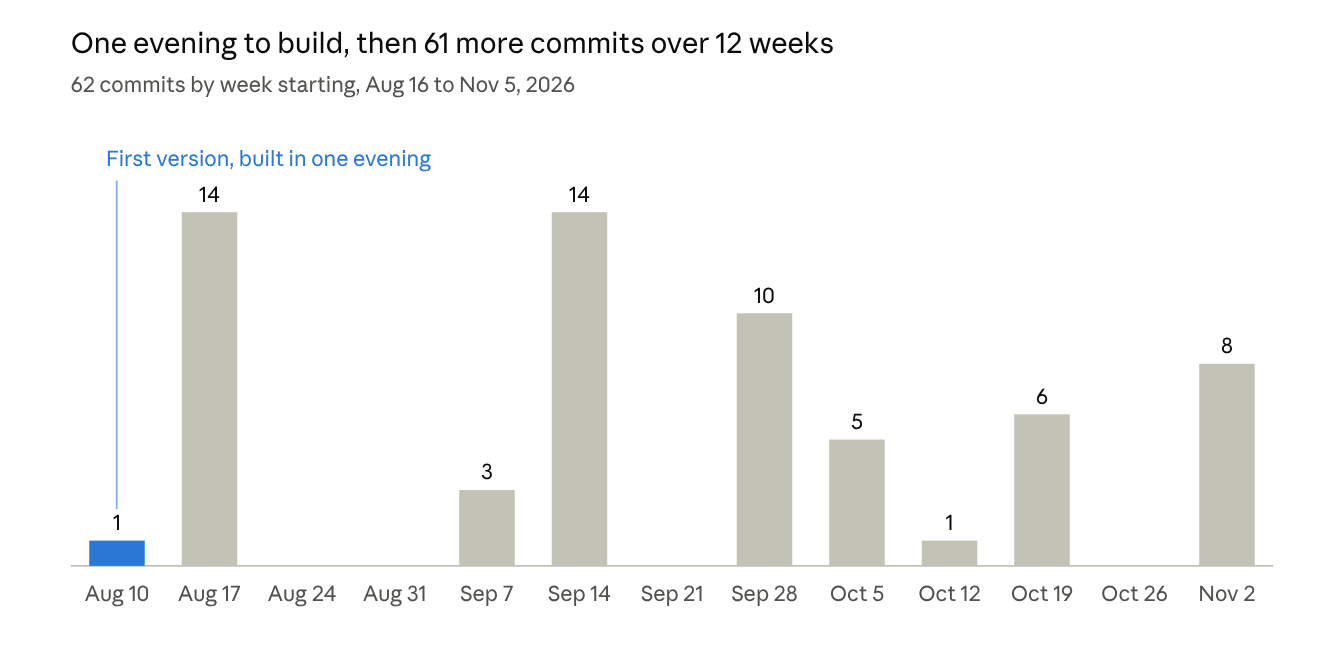
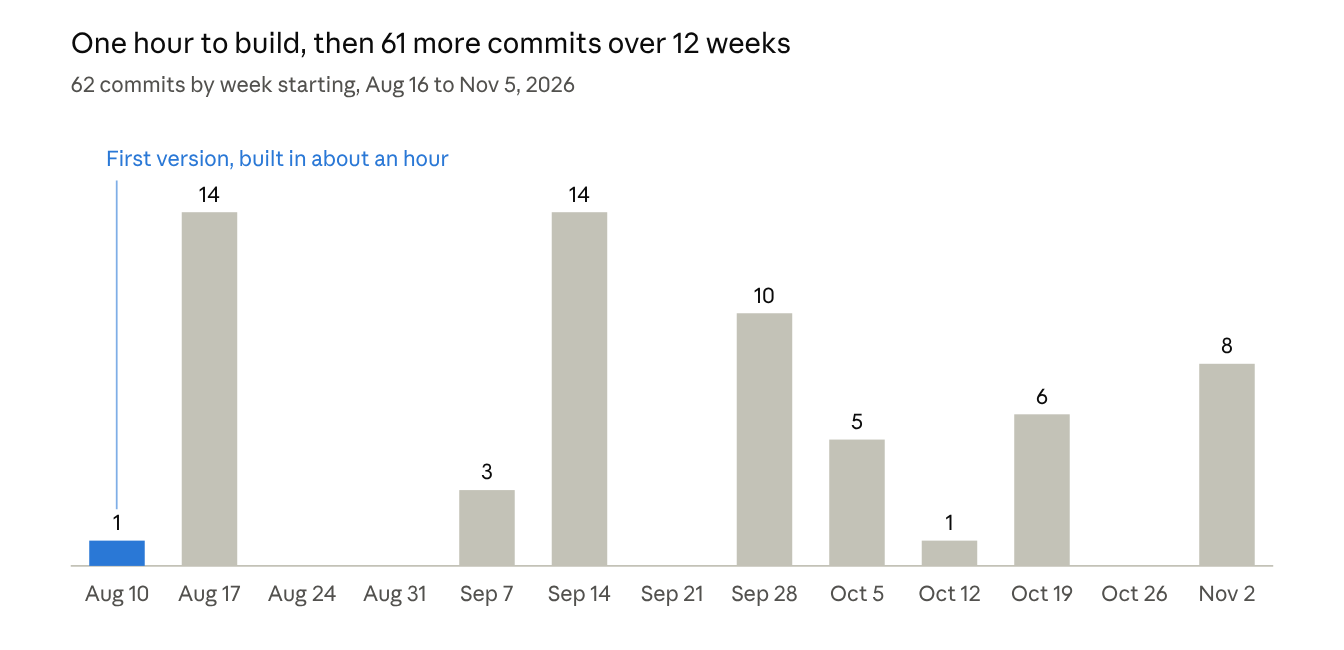
Update draft post with Stefana's revised version
Revised text, new links, new commits-by-week chart, and the All Orders
screenshot removed, from the second publishing package.

Claude-Session: https://claude.ai/code/session_01WRZoeWbWVzNLxqnPq4eQx8

Changed region(s): [[0.0938, 0.0308, 0.625, 0.0923], [0.2188, 0.2154, 0.3438, 0.2769]]

diff --git a/app/writing/vibe-coded-an-app-in-an-hour/page.tsx b/app/writing/vibe-coded-an-app-in-an-hour/page.tsx
@@ -50,93 +50,87 @@ export default function VibeCodingPost() {
       </header>
 
       <div className="post-body">
-        <p>It started with my sister and an order form. She runs a family butcher shop, and every fall she processes venison for hundreds of hunters. She had been trying to turn her paper order form into an Excel file that could create orders. It wasn&apos;t working. Excel couldn&apos;t do what she needed, and every time someone opened the shared file to enter a new order, something else got deleted.</p>
+        <p>It started with my sister and an order form. She runs a family butcher shop, and every Fall she processes venison for hundreds of hunters. She had been trying to turn her paper order form into an Excel file that could create orders. It wasn&apos;t working. Excel couldn&apos;t do what she needed, and every time someone opened the shared file to enter a new order, something would accidentally get deleted.</p>
 
-        <p>She asked if I could help. I run engineering teams for a living, but somewhere along the way &quot;engineering&quot; turned into roadmaps, staffing plans and status reviews. I hadn&apos;t written real code in years. So I tried <Ext href="https://feeds.simonwillison.net/2025/Mar/6/vibe-coding/">vibe coding</Ext> it with an AI assistant, and I had a working first version in about an hour.</p>
+        <p>She asked if I could help. I run engineering teams for a living, but somewhere along the way &quot;engineering&quot; turned into roadmaps, staffing plans and status reviews. I hadn&apos;t written real code in years. So I tried <Ext href="https://medium.com/womenintechnology/my-thoughts-on-vibe-coding-have-evolved-7912d2df0300">vibe coding</Ext> it with ChatGPT and Claude, and I had a working first version in about an hour.</p>
 
         <p>I&apos;m not the only leader heading back to the keyboard. <Ext href="https://leaddev.com/management/engineering-managers-are-back-in-the-codebase">LeadDev reports</Ext> that the share of engineering managers doing more hands-on technical work rose from 20% in 2025 to 35% in 2026.</p>
 
-        <p>That was August 16. Since then it has taken 62 commits over 12 weeks, and we still ship changes every week. This post is about both halves of that journey: how AI tools make it easy to get back to basics, and what the weeks after the first hour taught me about why applications are hard.</p>
+        <p>That was August 16. Since then it has taken 62 commits over 12 weeks, and we still deploy changes every week.</p>
 
         <h2>The use case: a seasonal shop running on paper</h2>
 
         <p>My sister&apos;s shop is in New York and processes venison during the fall and winter season. It handles roughly 1,000 animals between September and February, with one or two non-technical people entering orders.</p>
 
-        <p>Some context, since the subject can be sensitive. Deer populations in much of the Northeast are larger than the land supports, which shows up as crop and garden damage, vehicle collisions and stressed forests. New York State manages the herd through regulated, tagged harvests, and shops like this one turn that harvest into food. A meaningful share is donated to food banks through an NYS program.</p>
+        <p>Some context, since the subject can be sensitive. Deer populations in much of the Northeast are larger than the land supports, so New York State manages the herd through regulated, tagged harvests. Shops like this one turn that harvest into food, and some of it goes to food banks through an NYS program.</p>
 
-        <p>That is all the background this post needs. The real subject is the kind of problem almost every home-based or seasonal business has: a lot of orders, a lot of rules, a paper form, and nobody who wants to pay for enterprise software.</p>
+        <p>It&apos;s the kind of problem a lot of home-based and seasonal businesses have: lots of orders, lots of rules, and a paper form that can&apos;t keep up.</p>
 
-        <p>What the shop needed was specific:</p>
+        <p>The shop needed fast order entry at the counter, printed tickets, and the New York State donation paperwork, all on one laptop with no monthly bill.</p>
 
-        <ul>
-          <li>Take an order in about 90 seconds while a customer waits</li>
-          <li>Track cuts, sausage and specialty work that finish weeks apart</li>
-          <li>Print tickets and receipts on a cheap label printer</li>
-          <li>Capture the New York State donation paperwork correctly</li>
-          <li>Run on one laptop, with no cloud bill and no IT person</li>
-        </ul>
-
-        <h2>Hour one: what AI got right immediately</h2>
+        <h2>Hour one: what AI got right</h2>
 
         <p>I didn&apos;t start with a prompt. I started the way I worked before I led engineering teams: as a product manager. I sat down with my sister for about 20 minutes and asked how she runs the business with that order form. What happens when a hunter drops off a deer? Who touches the order next? What goes wrong?</p>
 
         <p>I scribbled notes all over the front and back of the form. It was a mess, but it held a lot of context that had never been written down anywhere: how cuts trade off against each other, sausage minimums, donations, and when people pay.</p>
 
-        <p>Then I typed those notes into ChatGPT and worked with it to turn them into a product requirements document: a detailed spec of every field, price, rule, printout and report the shop needed. It captured details like the 5 lb minimum per sausage flavor, the 60/40 venison-to-pork ratio, and the rule that a cape and a euro mount can&apos;t go on the same deer.</p>
+        <p>Then I typed those notes into ChatGPT and turned them into a product requirements document (PRD).</p>
 
         <p>I took that PRD to Claude to design the architecture and generate the code. Before writing anything, Claude produced a set of design docs and pushed back on the spec in places, raising questions the PRD hadn&apos;t answered. Two rounds of answers from the shop settled the details, and most of those answers removed features rather than adding them.</p>
 
         <p>That was the <Ext href="https://builder.aws.com/content/3KjWpM4sqd5f0zjUtE67OfUa7rk/ai-driven-development-life-cycle-ai-dlc-on-aws-a-new-approach-to-software-engineering">AI-driven development lifecycle (AIDLC)</Ext> I learned at work, scaled down to a family business: discovery, requirements, design, review, then build. Using two AI tools for different stages worked well to keep my token budget down in each app, as long as I carried the context between them myself.</p>
 
-        <p>With that groundwork done, the build itself was fast. I had a usable app the same evening. The first commit landed on August 16 with 43 files and about 6,400 lines of code, tests included.</p>
+        <p>With that groundwork done, the build itself was fast. I had a usable app the same night. The first commit landed on August 16 with 43 files and about 6,400 lines of code, tests included.</p>
 
-        <p>I made one architecture call up front, and the AI held to it: zero dependencies. The app is Node.js with its built-in SQLite database and plain HTML pages. There is no <code>npm install</code>, no framework and nothing to break during an update. It runs on the owner&apos;s laptop and any phone or tablet on the shop Wi-Fi can open it.</p>
+        <p>I made one architecture call up front - no dependencies. It&apos;s just Node.js and its built-in database, running on the owner&apos;s laptop.</p>
 
-        <p>The home screen answers the question the shop asks all day: what is waiting, and on what?</p>
+        <p>The home screen answers the question the shop asks all day - what is waiting, and on what?</p>
 
         <Figure src="home.png" alt="Home screen showing today's work by stage, with demo data" width={1600} height={1025}>The home screen: today&apos;s work by stage, plus anything that needs a person&apos;s attention. All screenshots in this post use made-up demo data; no real customer information is shown.</Figure>
 
-        <p>Order entry is built for speed. Big touch targets, the phone number first (so repeat customers fill in automatically), and one button to save and print.</p>
+        <p>Order entry is built for speed. Big touch targets (for easy order entry), the phone number first (so repeat customers fill in automatically), and one button to save and print to multiple locations.</p>
 
         <Figure src="new-order.png" alt="New order form with customer, animal and services sections, with demo data" width={1600} height={1025}>New order: customer, animal and cut instructions on one scrolling form, with the running total pinned to the bottom. Demo data.</Figure>
 
-        <p>This is the part of AI coding that feels like magic. A clean, opinionated first version that would have taken me a few weekends a decade ago took one evening. For a leader who has drifted away from code, that is a genuine on-ramp back to the craft.</p>
+        <p>A first version that would have taken me a few weekends a decade ago took about an hour.</p>
 
-        <h2>Weeks two through twelve: reality shows up</h2>
+        <h2>Weeks 2 through 12: reality shows up</h2>
 
-        <p>The app went live on day three. Then the shop started using it, and the real requirements arrived one at a time. The codebase has roughly doubled since that first evening, to about 12,400 lines.</p>
+        <p>The app went live on day 3. Then the shop started using it, and the real requirements arrived one at a time. The codebase has roughly doubled since that first commit, to about 12,400 lines.</p>
 
-        <Figure src="commits-by-week.png" alt="Bar chart of commits per week from August 16 to November 5, 2026: one commit the first evening, then bursts of 14, 14 and 10 commits as the season got going" width={1344} height={650}>Commits per week, from the project&apos;s git history: 62 commits, Aug 16 to Nov 5, 2026.</Figure>
+        <Figure src="commits-by-week.png" alt="Bar chart of commits per week from August 16 to November 5, 2026: one commit for the first version, then bursts of 14, 14 and 10 commits as the season got going" width={1344} height={650}>Commits per week, from the project&apos;s git history: 62 commits, Aug 16 to Nov 5, 2026.</Figure>
 
-        <p>The bursts line up with the shop&apos;s calendar: setup before the season, a rush when new animal types and the donation paperwork arrived, and steady tweaks once orders started flowing. Each commit message reads like a lesson the first prompt could not have known.</p>
+        <p>The bursts of commits line up with the shop&apos;s calendar: setup before the season, a rush when new animal types and the donation paperwork arrived, and steady tweaks once orders started flowing.</p>
 
         <div className="post-table">
           <table>
             <thead><tr><th>Date</th><th>Change</th><th>What reality taught us</th></tr></thead>
             <tbody>
               <tr><td>Nov 5</td><td>Owner-only area for money totals</td><td>Staff and owner need different views of the same data</td></tr>
-              <tr><td>Nov 3</td><td>&quot;Canadian Bacon is not a roast&quot;</td><td>We had reversed this rule twice. Domain knowledge is earned, not prompted</td></tr>
+              <tr><td>Nov 3</td><td>&quot;Canadian Bacon is not a roast&quot;</td><td>We changed this rule twice before getting it right</td></tr>
               <tr><td>Oct 9</td><td>Stop customer names being overwritten</td><td>Real data is messier than demo data</td></tr>
               <tr><td>Oct 4</td><td>Printable NYS donation form</td><td>The paperwork was the real bottleneck all along</td></tr>
               <tr><td>Sep 20</td><td>Add elk, priced by weight on the bone</td><td>Every new product brings its own rules</td></tr>
               <tr><td>Sep 12</td><td>Hunter ID field, then stop blocking orders without it</td><td>A required field can stall a customer at the counter</td></tr>
-              <tr><td>Aug 21</td><td>Resize prints for the real 4x6 label printer</td><td>Hardware decides your layout</td></tr>
-              <tr><td>Aug 18</td><td>Fix &quot;today&quot; using UTC instead of shop time</td><td>Classic bugs still happen, fast</td></tr>
+              <tr><td>Aug 21</td><td>Resize prints for the real 4x6 label printer</td><td>The printer we actually had set the layout</td></tr>
+              <tr><td>Aug 18</td><td>Fix &quot;today&quot; using UTC instead of shop time</td><td>AI-written code still has ordinary bugs</td></tr>
             </tbody>
           </table>
         </div>
 
         <p>Every commit is listed in the <Ext href="https://github.com/stefana912/deer-processing-system-design/blob/main/CHANGELOG.md">changelog in the public design repo</Ext>.</p>
 
-        <p>The donations screen is a good example. It was not in the first version at all. It now checks every donated animal against what the New York State form requires and refuses to add incomplete rows, because NYS rejects incomplete forms.</p>
+        <p>The donations screen is a good example. It was not in the first version at all. But after my sister spent hours copying and pasting data into PDF files, I realized I could auto-generate those for her. The app now checks every donated animal against what the New York State form requires and refuses to add incomplete rows, because NYS rejects incomplete forms. It keeps track of what went to the form and what hasn’t yet so that she doesn’t accidentally submit the same deer twice. A lot of human error is eliminated with this automation.</p>
 
         <Figure src="donations.png" alt="Donations screen that builds the New York State donation form, with demo data" width={1600} height={1025}>Donations: the NYS form is assembled from orders, and missing fields are flagged before anything is submitted. Demo data.</Figure>
 
         <h2>The real lesson: vibe coding is the easy part</h2>
 
-        <p>Vibe coding is great, and it is genuinely fun. But a vibe-coded app is designed for the day you build it. The moment real people depend on it, you have to think about scale: who the users are, what they will need to see, and how their use cases will change over time. Plenty of people are noticing the same thing: <Ext href="https://rehack.com/?p=14610">shipping is the easy part</Ext>, and <Ext href="https://feeds.simonwillison.net/2025/Mar/6/vibe-coding/">vibe coding straight into production</Ext> only works if someone understands the code.</p>
+        <p>Vibe coding is great, and it is genuinely fun. But a vibe-coded app is designed for the day you build it. Once real people depend on it, you have to think about scale. Who are the users? What will they need to see? How will their use cases change over time? Others are seeing the same thing: <Ext href="https://www.jeannelizabeth.com/blog/vibe-coding-a-double-edged-sword">it&apos;s easy to mistake the prototype for the product</Ext>.</p>
 
-        <p>The clearest evidence is in our database, not our screens. The app has needed 22 schema migrations in 12 weeks, and several of them exist only because the first data model assumed the business would stay the same.</p>
+        <p>Now every family dinner happens to be a new feature-gathering session for the app. My mom, dad, sister, and her husband text me requests in the middle of the day, and I&apos;m adding code from my phone on the fly. Every change has to pass more than 200 automated tests before it goes live.</p>
+
+        <p>The clearest evidence of change is in our database, not our screens. The app has needed 22 schema migrations in 12 weeks, and several of them exist only because the first data model assumed the business would stay the same.</p>
 
         <div className="post-table">
           <table>
@@ -150,35 +144,21 @@ export default function VibeCodingPost() {
           </table>
         </div>
 
-        <p>Today I realized the bigger version of this problem. The core order is still shaped around one kind of job: a deer with four fixed services. If the shop takes on different types of orders, or wants reports we haven&apos;t imagined yet, the data structure may need to change significantly. That is a far bigger job than adding a screen, because a live season of orders has to survive the move.</p>
-
-        <p>None of this means the hour was wasted. It means the hour is where the real design work starts. These are the questions I wish I had asked on day one:</p>
-
-        <ol>
-          <li><strong>Who else will use this?</strong> Staff and the owner turned out to need different views of the same data.</li>
-          <li><strong>What will we sell next year that we don&apos;t today?</strong> Every new product brought its own pricing and paperwork rules.</li>
-          <li><strong>What reports will someone ask for?</strong> A report is only as good as the structure underneath it.</li>
-          <li><strong>What happens to old records when the rules change?</strong> We copy prices onto each order so a December change never rewrites an October bill.</li>
-          <li><strong>What does it cost to change the structure once real data is in it?</strong> Far more than it costs on day one.</li>
-        </ol>
-
-        <p>The design reviews taught a counterweight to all this. Five of six answers from the shop pushed toward <em>less</em> software. Our test for any new feature is now: does it prevent a mistake involving a physical order, or capture a number that disappears if nobody writes it down? If not, a filter on the existing grid is probably enough.</p>
-
-        <Figure src="all-orders.png" alt="All Orders grid with quick-view filters, with demo data" width={1600} height={1025}>All Orders: one grid with quick views for every stage, instead of a new screen for every question. Demo data: names and 555 phone numbers are made up.</Figure>
+        <p>Today I realized the bigger version of this problem. The core order is still shaped around one kind of job: a deer with four fixed services. If the shop takes on different types of orders, or wants reports we haven&apos;t imagined yet, the data structure may need to change significantly. That is a far bigger job than adding a screen, because a live season of orders has to migrate with the upgrade.</p>
 
         <h2>What I&apos;d tell other leaders and small-business owners</h2>
 
         <p>Build something real for someone you know. A family business, a side hustle, a nonprofit, a home bakery. AI makes the first version cheap enough that the only real cost is your attention.</p>
 
         <ul>
-          <li><strong>For engineering leaders:</strong> this is the fastest way I know to feel what your teams feel. You will rediscover why estimates slip, why &quot;small&quot; changes aren&apos;t, and why the person closest to the work matters more than the spec. One <Ext href="https://code.dblock.org/2026/05/05/coding-with-ai-agents-is-now-a-baseline-expectation-for-managers.md">VP of Engineering spent five weeks coding with AI</Ext> on one of his teams and came away arguing every manager should.</li>
-          <li><strong>For home-based businesses:</strong> you can have software shaped exactly around how you work, without a subscription. Plan on a season of weekly tweaks, not a one-time install. Small businesses are already <Ext href="https://www.pymnts.com/?p=2845400">building their own back-office tools with AI</Ext> for the same reason: control.</li>
+          <li><strong>For engineering leaders:</strong> this is the fastest way I know to feel what your teams feel. You will rediscover why estimates slip, why &quot;small&quot; changes aren&apos;t actually simple, and why the person closest to the work matters more than the spec. Charity Majors, co-founder and CTO of Honeycomb, has argued for years that <Ext href="https://www.infoq.com/presentations/hands-on-coding-managers">managers who keep their hands on code</Ext> gain credibility and better judgment.</li>
+          <li><strong>For home-based businesses:</strong> you can have software shaped exactly around how you work, without a subscription. Plan on a season of weekly tweaks, not a one-time install. Solo founders are already <Ext href="https://www.forbes.com/sites/jodiecook/2026/03/23/how-solo-founders-are-vibe-coding-digital-products-that-make-instant-revenue/">vibe coding their own products</Ext>, too.</li>
           <li><strong>For everyone:</strong> write the decisions down. Our design notes and a test suite let me, or an AI, change things safely months later.</li>
         </ul>
 
-        <p>The one-hour app was the easy part, and the fun part. The twelve weeks that followed were the actual work: learning the users, the rules and how the business will grow. AI got me back to the basics of building. Thinking about scale got me back to the basics of engineering.</p>
+        <p>The one-hour app was the easy part, and the fun part. The 12 weeks that followed were the actual work: learning the users, the rules and how the business will grow. AI got me back to the basics of building. Thinking about scale got me back to the basics of engineering.</p>
 
-        <p>If you want to see what this looks like in practice, the design documents, screenshots of every screen and printout, and the full change history are public at <Ext href="https://github.com/stefana912/deer-processing-system-design">github.com/stefana912/deer-processing-system-design</Ext>. The application code stays private, since it runs a real shop with real customers.</p>
+        <p>If you want to see what this looks like in practice, the design documents, screenshots of screens and printouts, and the full change history are public at <Ext href="https://github.com/stefana912/deer-processing-system-design">github.com/stefana912/deer-processing-system-design</Ext>. The application code stays private, since it runs a real shop with real customers.</p>
       </div>
 
       <div className="post-footer">
